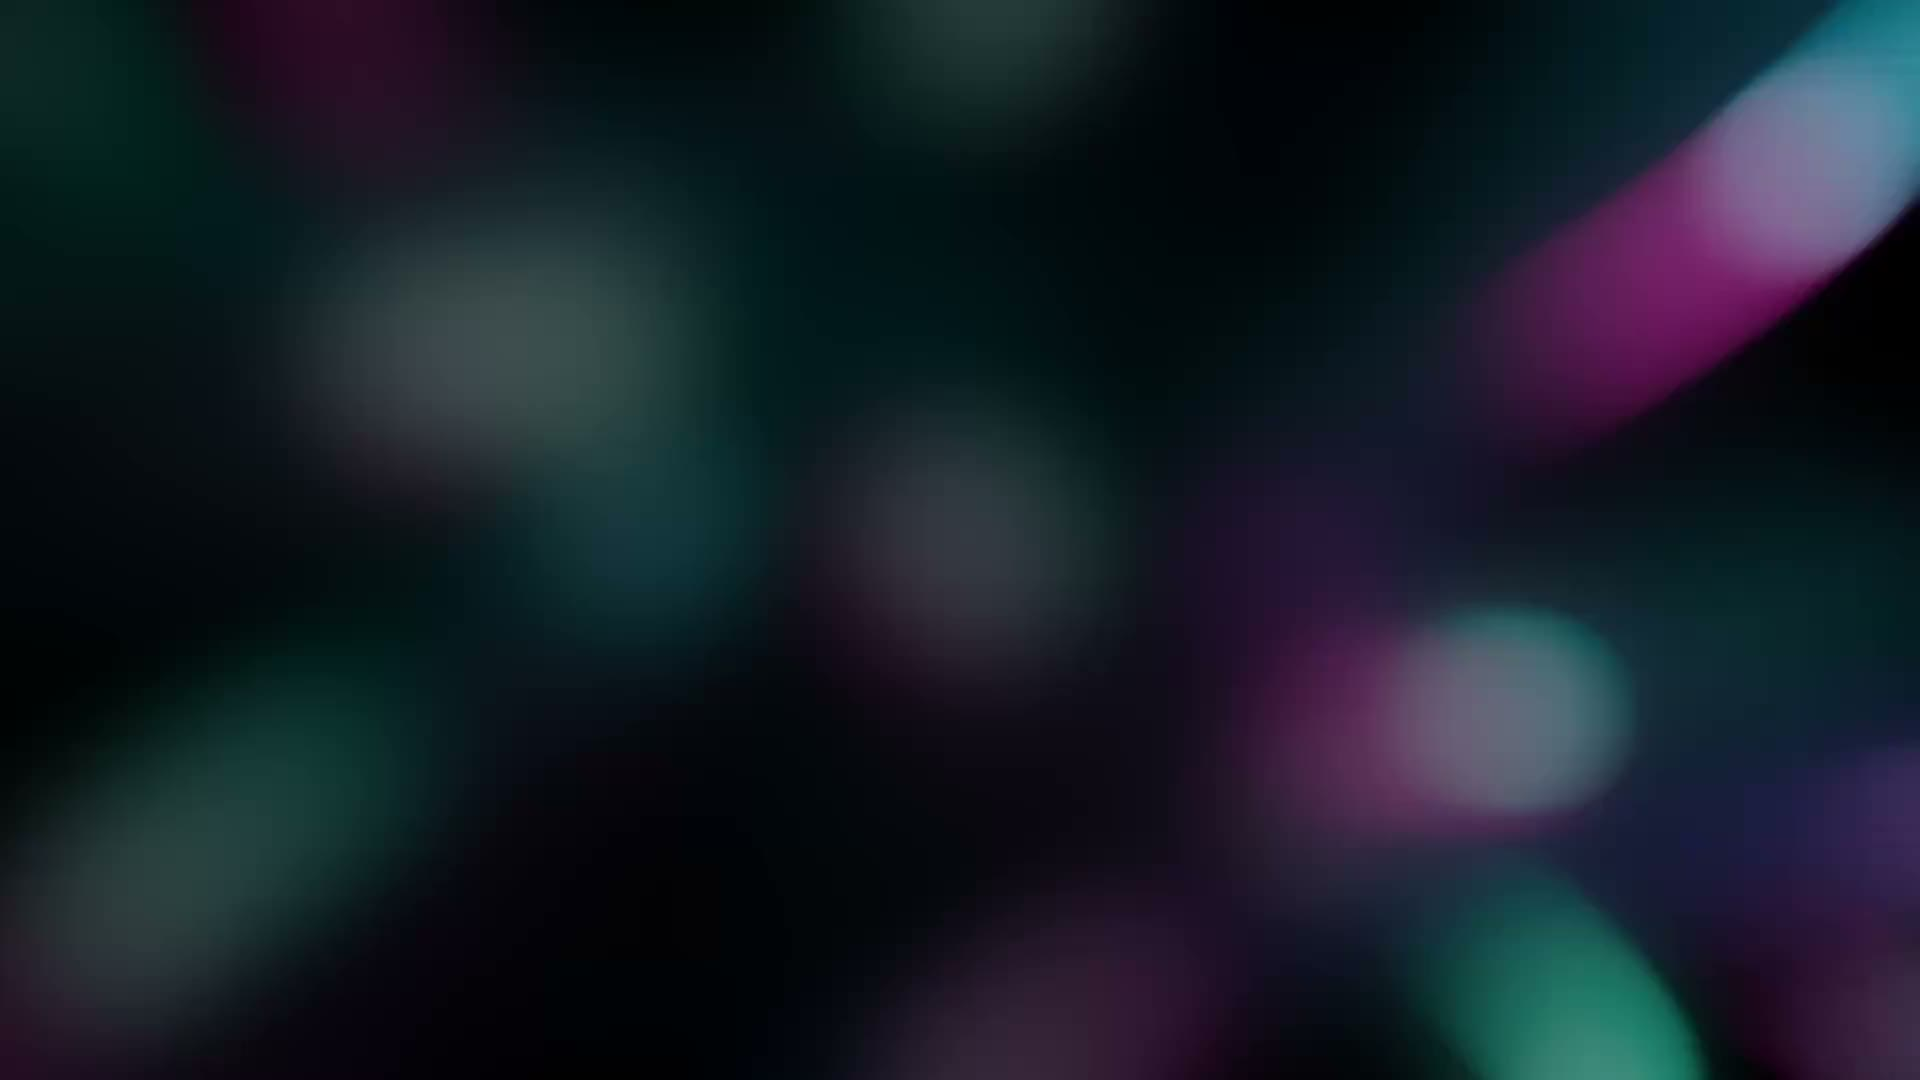
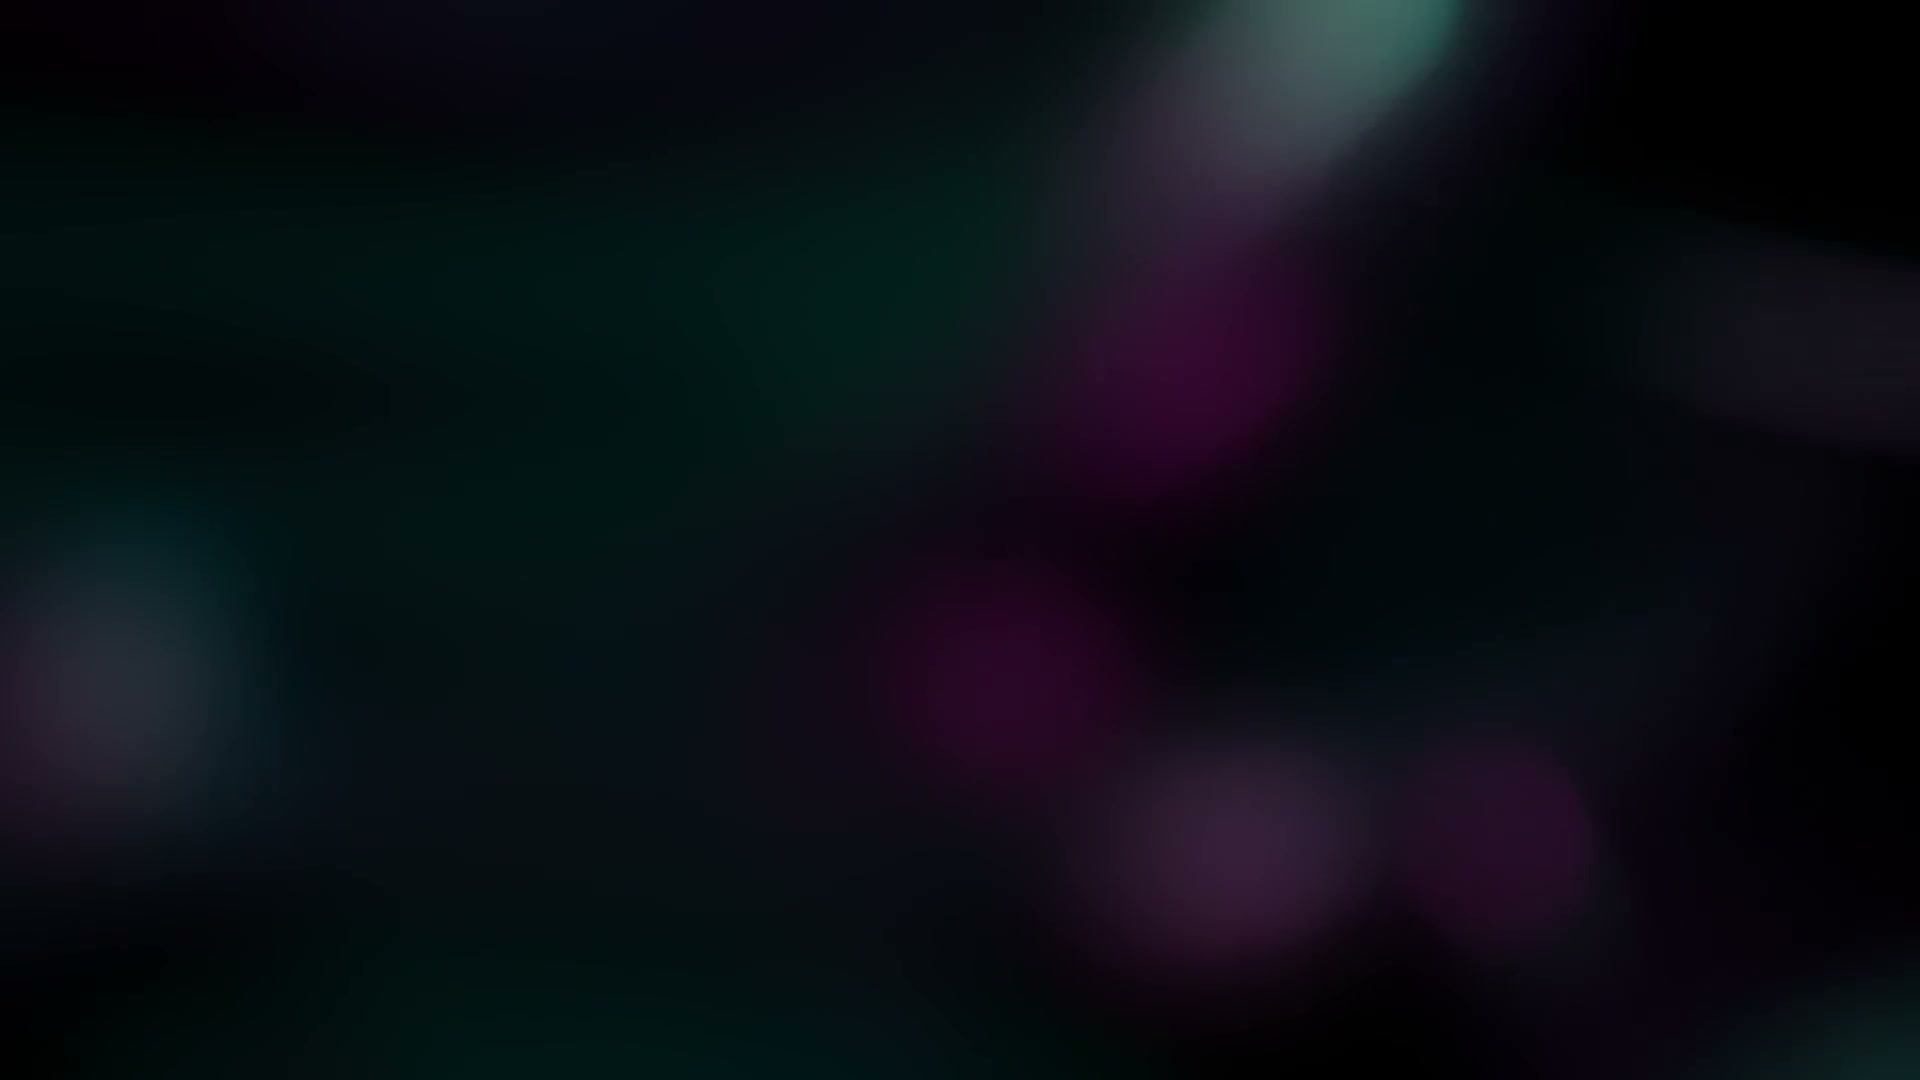
首页封面图换成第 8 秒的暗调画面；自动化改为取 1/4 处的帧

diff --git a/操作指南.md b/操作指南.md
@@ -94,9 +94,9 @@
   所以请在上传前自己把明暗调好——**画面左侧要偏暗**，因为你的名字、简介和按钮都压在那一边。
 - **想换视频**：直接上传新的，然后在字段里选中新文件即可。**不要先把旧的删掉**——
   删掉视频会连设置一起被清空，首页背景会立刻变成空白（要反悔就得找我还原）。
-- **封面图会自动生成，你不用管**：系统会截取视频的第一帧存成一张图。访客打开首页时
-  先看到这张图，等视频真的开始播放了再平滑切换过去——所以不会出现「先空白、再突然出画面」。
-  上传后大约 1-2 分钟自动完成。
+- **封面图会自动生成，你不用管**：系统会从视频里截一帧存成封面图（取大约四分之一处的画面，
+  避开开头可能不太好看的一瞬间）。访客打开首页时先看到这张图，等视频真的开始播放了
+  再平滑切换过去——所以不会出现「先空白、再突然出画面」。上传后大约 1-2 分钟自动完成。
   - 想自己挑一张封面，就在上面的「首页顶部背景大图」里传一张，它会优先被用作封面
     （注意：背景是视频时，这张图只当封面用，**不会**像纯图片背景那样被压暗和虚化）。
 - 想彻底取消视频背景：把字段里的文件删掉再发布，就回到图片背景。
